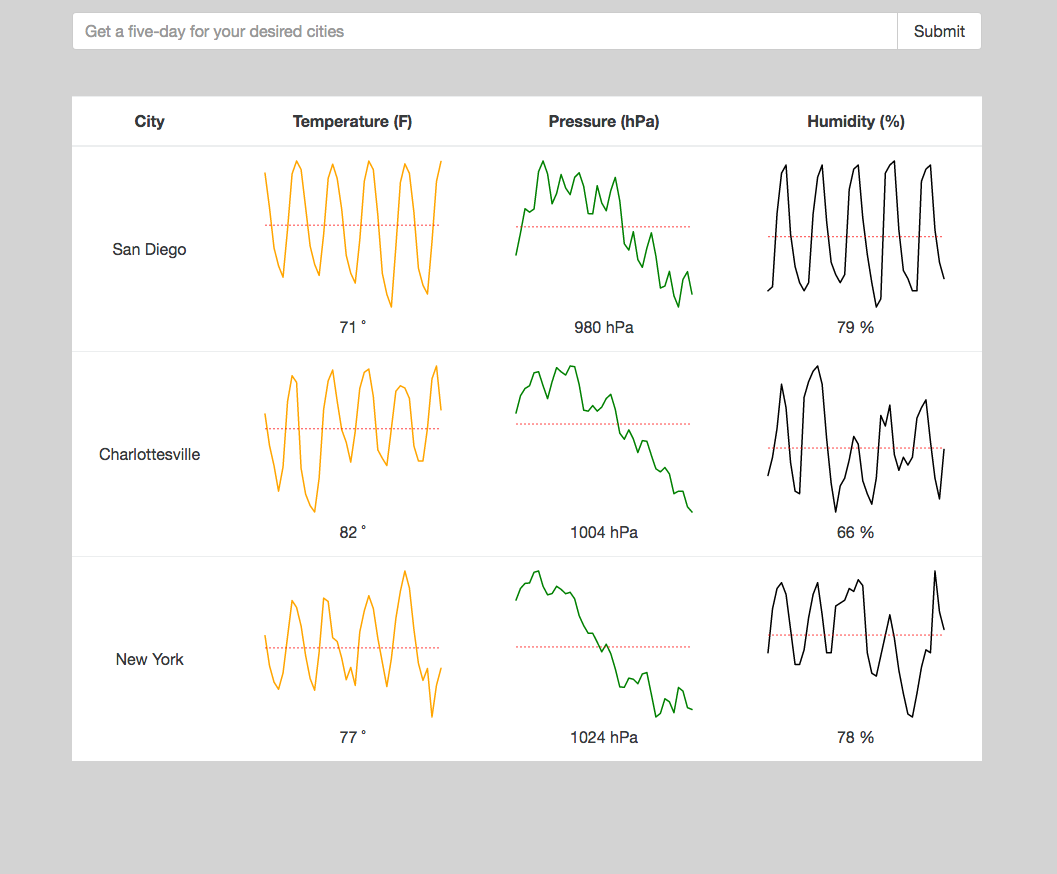
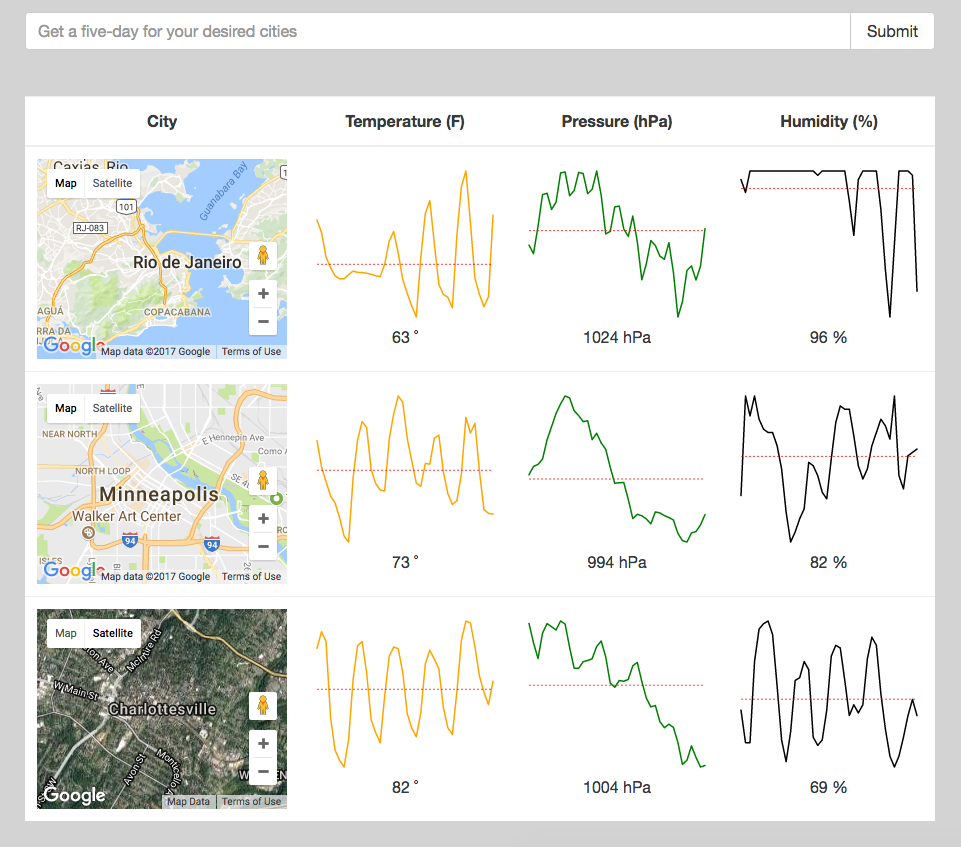
add google maps

diff --git a/src/containers/weather_list.js b/src/containers/weather_list.js
@@ -1,6 +1,7 @@
 import React, { Component } from 'react';
 import { connect } from 'react-redux';
 import Chart from '../components/chart';
+import GoogleMap from '../components/google_map';
 import _ from 'lodash';
 
 class WeatherList extends Component {
@@ -10,6 +11,13 @@ class WeatherList extends Component {
         const pressures = cityData.list.map(weather => weather.main.pressure);
         const humidities = cityData.list.map(weather => weather.main.humidity);
 
+        //coordinates
+        /*const lon = cityData.city.coord.lon;
+        const lat = cityData.city.coord.lat;*/
+
+        //ES6 destructuring
+        const { lon, lat } = cityData.city.coord;
+
         //conversion to Fahrenheit to Celcius hack
         //const temps = _.map(cityData.list.map(weather => weather.main.temp), (temp) => (temp -32) /1.8 );
 
@@ -17,7 +25,7 @@ class WeatherList extends Component {
         //console.log(temps);
         return (
             <tr key={name}>
-                <td>{name}</td>
+                <td><GoogleMap lon={lon} lat={lat} /></td>
                 <td><Chart data={temps} color="orange" unit="˚"/></td>
                 <td><Chart data={pressures} color="green" unit="hPa"/></td>
                 <td><Chart data={humidities} color="black" unit="%"/></td>

diff --git a/src/components/google_map.js b/src/components/google_map.js
@@ -1,0 +1,23 @@
+import React, { Component } from 'react';
+
+class GoogleMap extends Component {
+    //life cycle method which is called immediately after this component gets rendered to the DOM
+    componentDidMount(){
+        //this how to create an embedded google map inside of our document
+        new google.maps.Map(this.refs.map , { //pass in the html reference
+            zoom: 12,
+            center: {
+                lat: this.props.lat,
+                lng: this.props.lon
+            }
+        });
+    }
+
+    //The ref system allows us to get a direct 'reference to an html element' that has being rendered to the page
+    render(){
+        return <div ref="map"/>
+    }
+}
+
+export default GoogleMap;
+

diff --git a/src/reducers/reducer_weather.js b/src/reducers/reducer_weather.js
@@ -10,6 +10,7 @@ export default function (state = [], action) { //store weather data in an array 
             //handle the payload
             //concat doesn't change the existing array, instead creates a new one that contains the new and previous data
             return state.concat([action.payload.data]); //data parameter is retrieved from console log above
+
             //identical code in ES6 syntax
             //return [action.payload.data, ...state];
     }

diff --git a/style/style.css b/style/style.css
@@ -22,3 +22,9 @@ td, th {
 svg {
     height: 150px;
 }
+
+/*Find the 1st td inside of each row and the first td and its child div*/
+td:first-of-type, td:first-of-type > div {
+    height: 200px;
+    width: 250px;
+}
